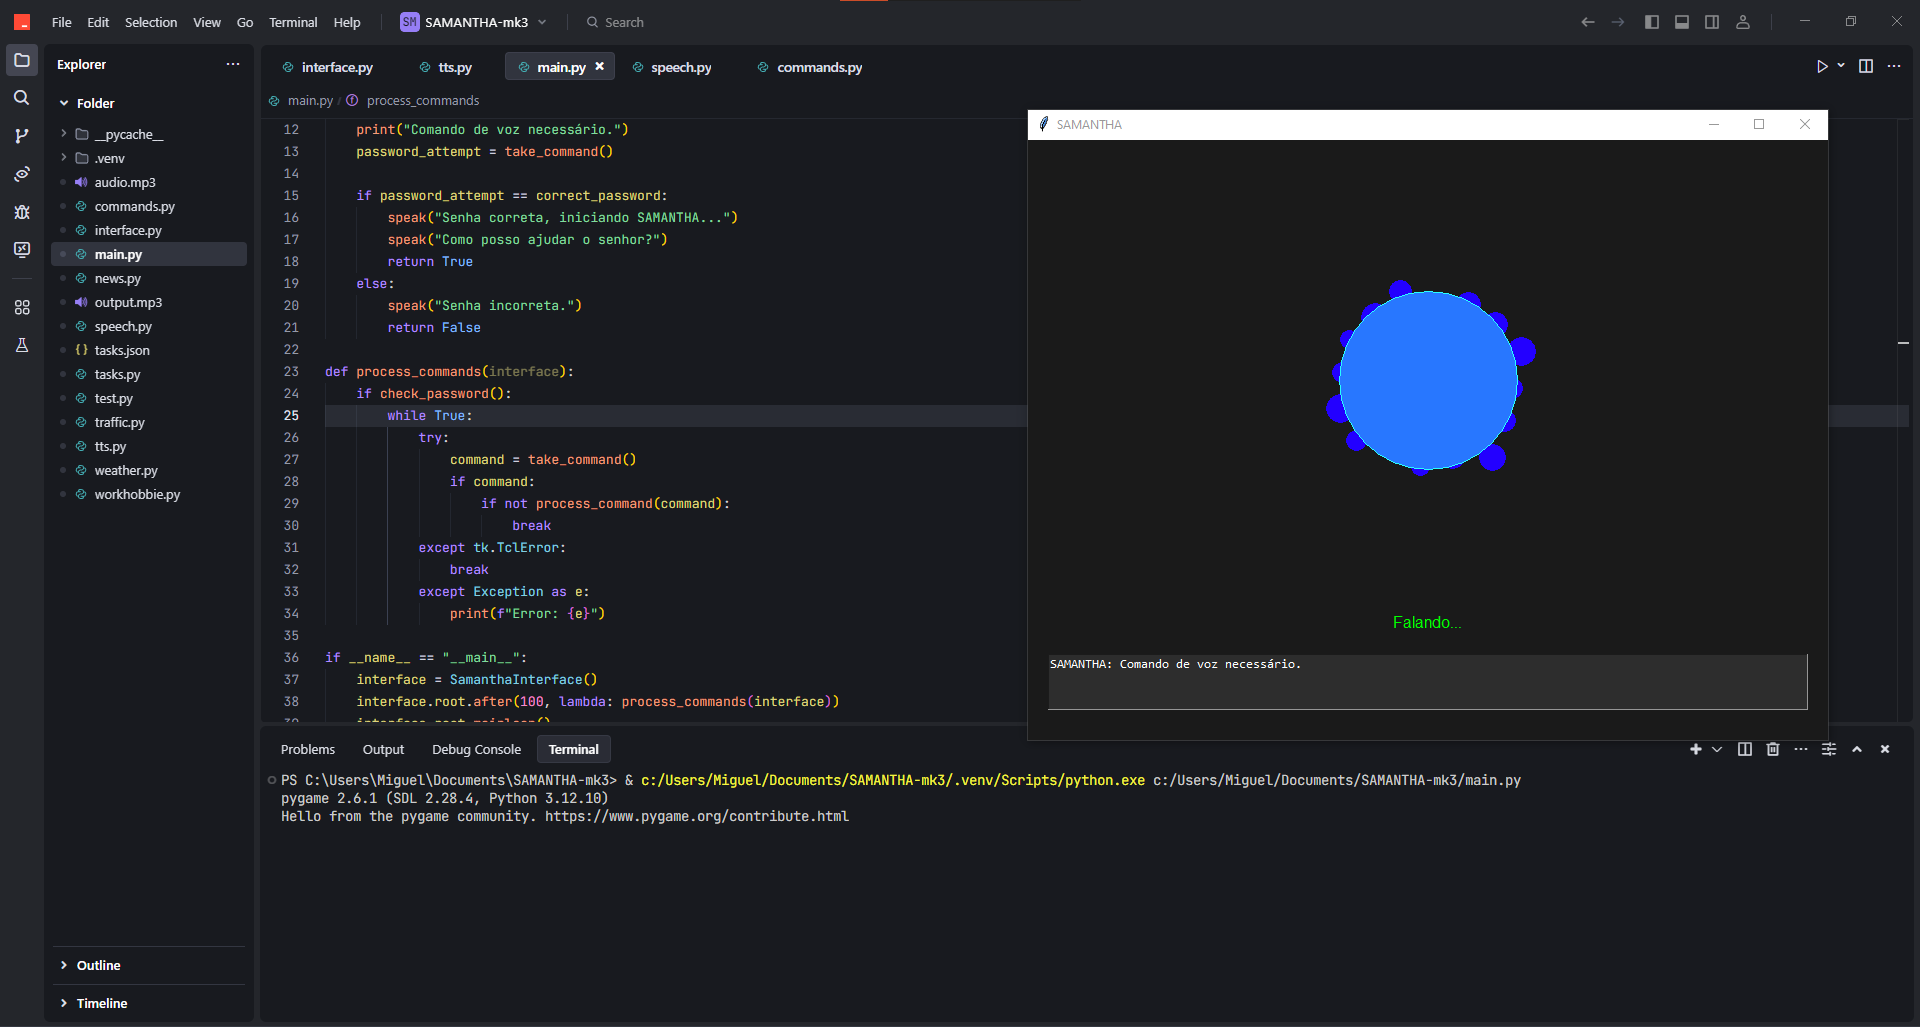
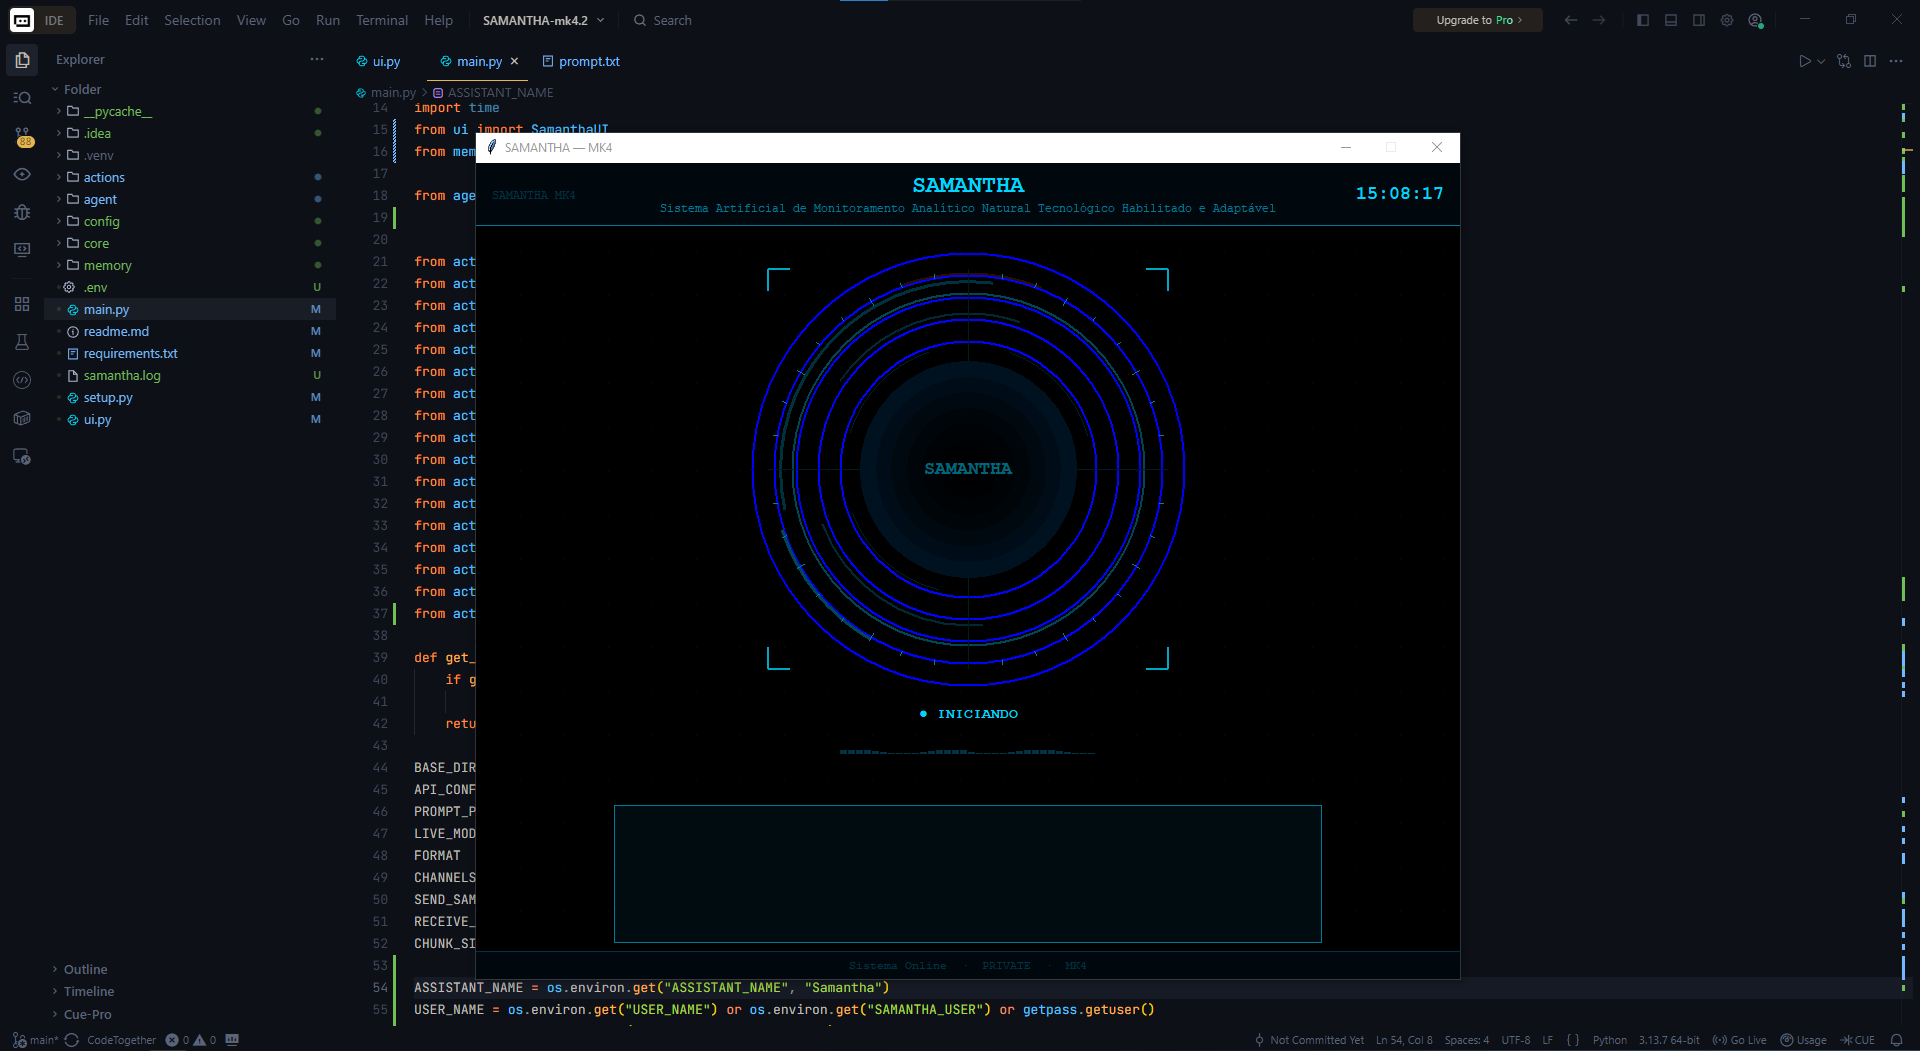
feat: replace static project grid with responsive swiper carousel
- Add Swiper.js library for interactive project card carousel with navigation and pagination
- Include new project card (R4GEFIN) with associated image asset
- Update project descriptions for accuracy (S.A.M.A.N.T.H.A now uses Gemini API)
- Fix Bootstrap navbar toggle data attribute naming
- Add responsive breakpoints for optimal card display across devices
- Hide navigation arrows on mobile screens for better UX
- Update copyright year from 2025 to 2026

diff --git a/index.html b/index.html
@@ -9,13 +9,15 @@
         integrity="sha384-SgOJa3DmI69IUzQ2PVdRZhwQ+dy64/BUtbMJw1MZ8t5HZApcHrRKUc4W0kG879m7" crossorigin="anonymous">
     <link rel="stylesheet" href="css/style.css">
     <link rel="stylesheet" href="https://cdn.jsdelivr.net/npm/bootstrap-icons@1.11.1/font/bootstrap-icons.css">
+    <!-- Swiper CSS -->
+    <link rel="stylesheet" href="https://cdn.jsdelivr.net/npm/swiper@11/swiper-bundle.min.css" />
 </head>
 
 <body>
     <header class="azule">
         <nav class="navbar navbar-expand-lg px-5 navbar-dark py-3">
             <a class="navbar-brand" href="#">Miguel Prata Silva</a>
-            <button class="navbar-toggler" type="button" data-toggle="collapse" data-target="#navbarNavAltMarkup"
+            <button class="navbar-toggler" type="button" data-bs-toggle="collapse" data-bs-target="#navbarNavAltMarkup"
                 aria-controls="navbarNavAltMarkup" aria-expanded="false" aria-label="Toggle navigation">
                 <span class="navbar-toggler-icon"></span>
             </button>
@@ -99,35 +101,67 @@
         <section class="azule py-5" id="projetos">
             <div class="px-5">
                 <h2 class="text-center mb-5 text-light">Projetos em Destaque</h2>
-                <div class="row g-5">
-                    <div class="col-12 col-md-4">
-                        <div class="card bg-dark text-light">
-                            <img src="assets/p1.png" class="card-img-top img-card" alt="Projeto 1">
-                            <div class="card-body">
-                                <h3 class="card-title">S.A.M.A.N.T.H.A</h3>
-                                <p>É uma assistente virtual criada com Python e suas bibliotecas para ajudar em algumas tarefas básicas, funcional a base de comandos de voz, sua estruturação foi feita com if else.</p>
+                <!-- Swiper -->
+                <div class="swiper mySwiper">
+                    <div class="swiper-wrapper">
+                        <!-- Projeto 1 -->
+                        <div class="swiper-slide">
+                            <div class="card bg-dark text-light h-100">
+                                <img src="assets/p1.png" class="card-img-top img-card" alt="Projeto 1">
+                                <div class="card-body">
+                                    <h3 class="card-title">S.A.M.A.N.T.H.A</h3>
+                                    <p>É uma assistente virtual criada com Python e suas bibliotecas para ajudar em
+                                        tarefas, funcional a base de comandos de voz, sua estruturação
+                                        se baseia em prompts e utilizando a API do GEMINI para sua execução.
+                                    </p>
+                                </div>
+                            </div>
+                        </div>
+                        <!-- Projeto 2 -->
+                        <div class="swiper-slide">
+                            <div class="card bg-dark text-light h-100">
+                                <img src="assets/p2.png" class="card-img-top img-card" alt="Projeto 2">
+                                <div class="card-body">
+                                    <h3 class="card-title">Versátil Eventos</h3>
+                                    <p>Um site para o agendamento de um salão de festas e com produção de um contrato
+                                        para o email do cliente que agendou. Site feito puramente com PHP, JS, HTML e
+                                        CSS</p>
+                                </div>
+                            </div>
+                        </div>
+                        <!-- Projeto 3 -->
+                        <div class="swiper-slide">
+                            <div class="card bg-dark text-light h-100">
+                                <img src="assets/p3.png" class="card-img-top img-card" alt="Projeto 3">
+                                <div class="card-body">
+                                    <h3 class="card-title">RotaVan</h3>
+                                    <p>Um gerenciador de rotas escolares para vans, foi utilizado React-Native para sua
+                                        criação juntamente com a API do google maps para ser feito o Frontend, já o
+                                        Backend foi utilizado o SQL.</p>
+                                </div>
+                            </div>
+                        </div>
+                        <!-- Projeto 4-->
+                        <div class="swiper-slide">
+                            <div class="card bg-dark text-light h-100">
+                                <img src="assets/p4.png" class="card-img-top img-card" alt="Projeto 4">
+                                <div class="card-body">
+                                    <h3 class="card-title">R4GEFIN</h3>
+                                    <p>Um sistema web em PHP com autenticacao de usuarios e interface
+                                        administrativa para operacoes internas.
+                                        Ele centraliza cadastros e gestao de entidades como alunos, contratantes,
+                                        fornecedores, cursos e matriculas.</p>
+                                </div>
                             </div>
                         </div>
                     </div>
-                    <div class="col-12 col-md-4">
-                        <div class="card bg-dark text-light">
-                            <img src="assets/p2.png" class="card-img-top img-card" alt="Projeto 1">
-                            <div class="card-body">
-                                <h3 class="card-title">Versátil Eventos</h3>
-                                <p>Um site para o agendamento de um salão de festas e com produção de um contrato para o email do cliente que agendou. Site feito puramente com PHP, JS, HTML e CSS</p>
-                            </div>
-                        </div>
-                    </div>
-                    <div class="col-12 col-md-4">
-                        <div class="card bg-dark text-light">
-                            <img src="assets/p3.png" class="card-img-top img-card" alt="Projeto 1">
-                            <div class="card-body">
-                                <h3 class="card-title">RotaVan</h3>
-                                <p>Um gerenciador de rotas escolares para vans, foi utilizado React-Native para sua criação juntamente com a API do google maps para ser feito o Frontend, já o Backend foi utilizado o SQL.</p>
-                            </div>
-                        </div>
-                    </div>
+                    <!-- Add Pagination -->
+                    <div class="swiper-pagination"></div>
+                    <!-- Add Navigation -->
+                    <div class="swiper-button-next"></div>
+                    <div class="swiper-button-prev"></div>
                 </div>
+            </div>
         </section>
 
         <section class="azulc py-5" id="contato">
@@ -138,7 +172,8 @@
                         <a href="mailto:[email redacted]" class="button1">
                             <i class="bi bi-envelope-fill me-2"></i>Email
                         </a>
-                        <a href="https://www.linkedin.com/in/miguel-prata-silva-42562b27b/" target="_blank" class="button2">
+                        <a href="https://www.linkedin.com/in/miguel-prata-silva-42562b27b/" target="_blank"
+                            class="button2">
                             <i class="bi bi-linkedin me-2"></i>LinkedIn
                         </a>
                     </div>
@@ -147,8 +182,45 @@
         </section>
     </main>
     <footer class="azule text-light text-center py-2 d-flex justify-content-center">
-        <p class="m-0">&copy; 2025 Miguel Prata Silva</p>
+        <p class="m-0">&copy; 2026 Miguel Prata Silva</p>
     </footer>
+
+    <!-- Bootstrap JS Bundle -->
+    <script src="https://cdn.jsdelivr.net/npm/bootstrap@5.3.5/dist/js/bootstrap.bundle.min.js"></script>
+
+    <!-- Swiper JS -->
+    <script src="https://cdn.jsdelivr.net/npm/swiper@11/swiper-bundle.min.js"></script>
+
+    <!-- Initialize Swiper -->
+    <script>
+        var swiper = new Swiper(".mySwiper", {
+            slidesPerView: 1,
+            spaceBetween: 30,
+            loop: true,
+            pagination: {
+                el: ".swiper-pagination",
+                clickable: true,
+            },
+            navigation: {
+                nextEl: ".swiper-button-next",
+                prevEl: ".swiper-button-prev",
+            },
+            breakpoints: {
+                640: {
+                    slidesPerView: 1,
+                    spaceBetween: 20,
+                },
+                768: {
+                    slidesPerView: 2,
+                    spaceBetween: 40,
+                },
+                1024: {
+                    slidesPerView: 3,
+                    spaceBetween: 50,
+                },
+            },
+        });
+    </script>
 </body>
 
 </html>

diff --git a/css/style.css b/css/style.css
@@ -111,3 +111,35 @@ main {
     object-fit: cover;
     width: 100%;
 }
+
+/* Swiper Custom Styles */
+.swiper {
+    width: 100%;
+    padding-top: 20px;
+    padding-bottom: 50px;
+}
+
+.swiper-slide {
+    height: auto; /* Allow card to determine height */
+    display: flex;
+    justify-content: center;
+    align-items: stretch;
+}
+
+.swiper-pagination-bullet {
+    background: #3765e4;
+}
+
+.swiper-button-next,
+.swiper-button-prev {
+    color: #3765e4;
+    top: 50%;
+    transform: translateY(-50%);
+}
+
+@media (max-width: 768px) {
+    .swiper-button-next,
+    .swiper-button-prev {
+        display: none; /* Hide navigation on small screens for better UX */
+    }
+}